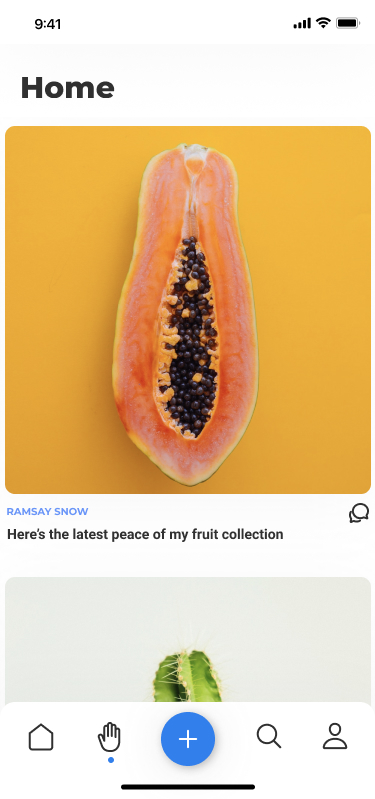
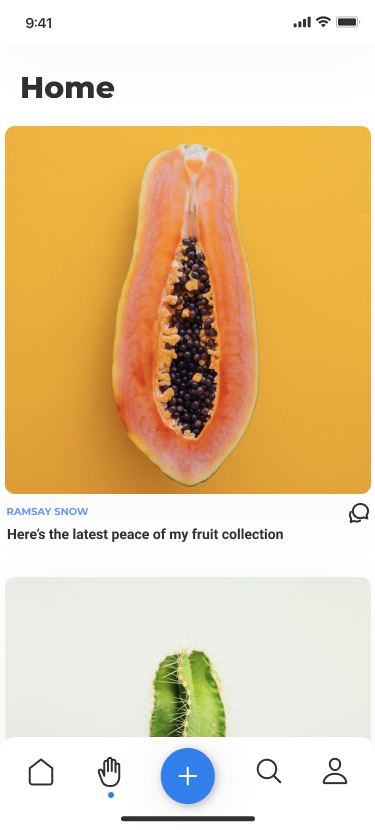
Forth Device mockup (Mobile) % fixes

diff --git a/src/pages/index.js b/src/pages/index.js
@@ -6,6 +6,7 @@ import IphoneX from '../assets/img/iphonex.inline.svg'
 import profile from '../assets/img/Profile.jpg'
 import home from '../assets/img/Home.jpg'
 import camera from '../assets/img/Camera.jpg'
+import message from '../assets/img/Message.jpg'
 
 const Home = () => (
     <Layout>
@@ -32,7 +33,7 @@ const Home = () => (
                         <IphoneX className="device IphoneX rotate-right iphone-second iphone-right-second" />
                         <div className="device-content-container rotate-right device-content-container-right-second device-content-container-second">
                             <div className="container">
-
+                            <img src={message} alt="Wave App Profile Page"/>
                             </div>
                         </div>
                     </div>

diff --git a/src/assets/device.css b/src/assets/device.css
@@ -44,7 +44,7 @@
     top: 0;
     left: 0;
     z-index: 0;
-    width: 100%;
+    width: 100.57%;
     height: 89vh;
     overflow: hidden;
 }
